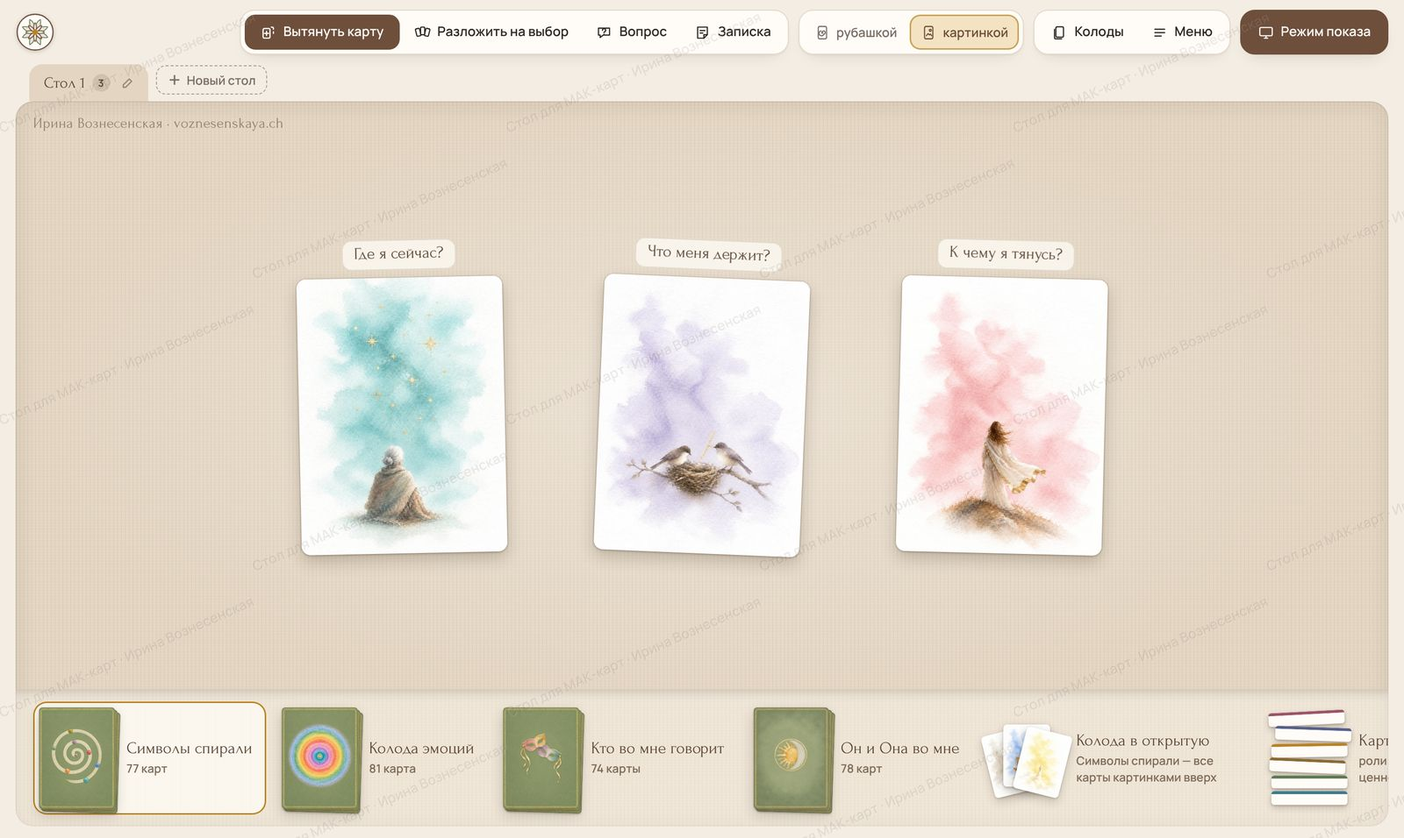
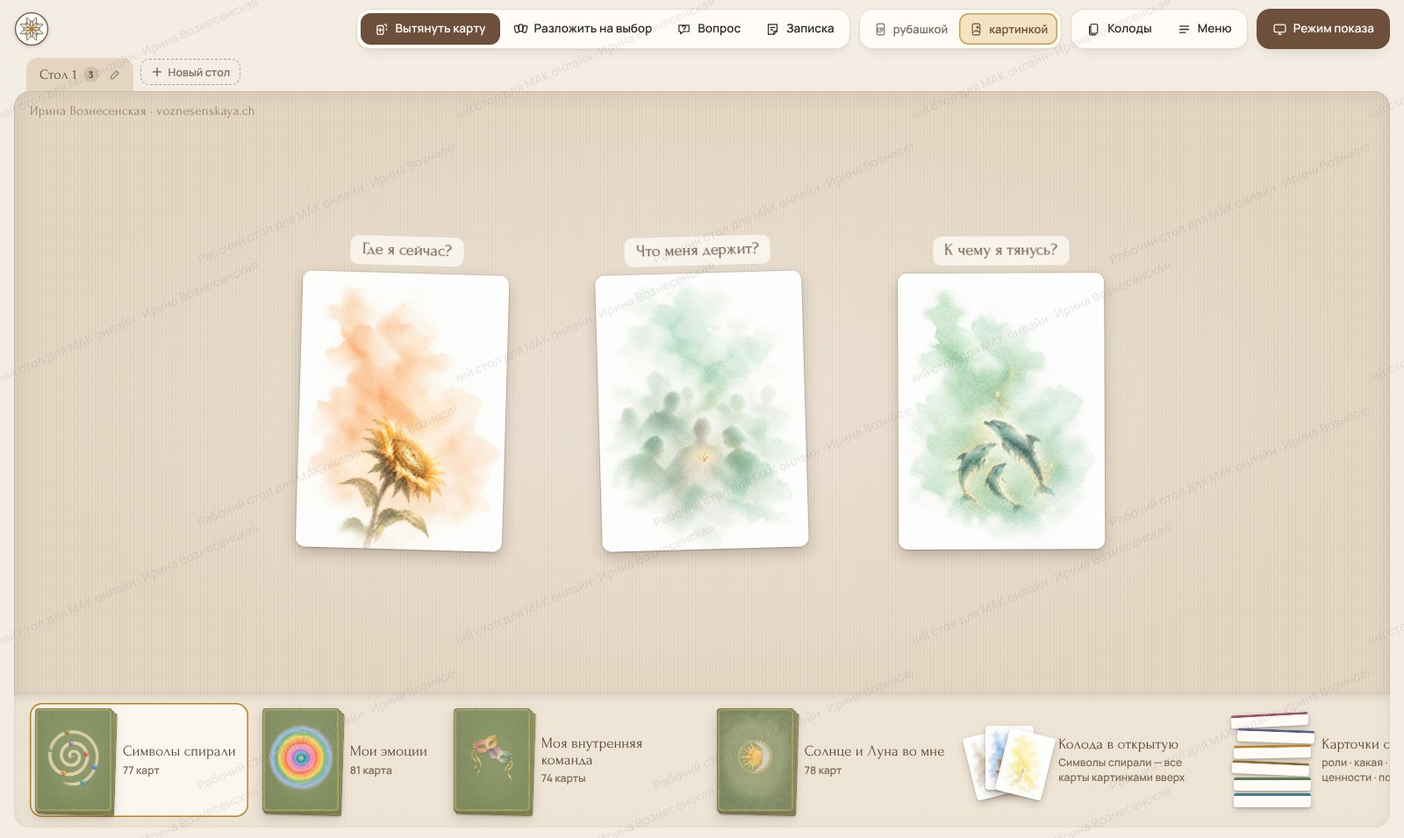
МАК-карты: колоды «Мои эмоции», «Моя внутренняя команда», «Солнце и Луна во мне», новые тексты страницы и снимок стола; память сайта v56 (RU)
Claude-Session: https://claude.ai/code/session_01VLBoUty16RTWdg7egacYMK

diff --git a/mak/index.html b/mak/index.html
@@ -665,8 +665,8 @@ html.mk-lockscroll{overflow:hidden}
     <div class="mk-hero-txt">
       <div class="eyebrow">МАК-карты · авторские колоды</div>
       <h1 id="h1">Рабочий стол <em>для МАК онлайн</em></h1>
-      <p class="lead">Карта ложится на стол, человек видит её на общем экране и рассказывает, что в ней узнаёт. Четыре авторские колоды, вопросы над картами, готовые расклады. Расклад сохраняется картинкой и в PDF.</p>
-      <p class="mk-for">Для коучей, психологов и всех, кто работает с МАК — метафорическими ассоциативными картами — на онлайн-сессиях.</p>
+      <p class="lead">Ты вытягиваешь карту — и она ложится на стол перед вами обоими: человек видит её на общем экране и рассказывает, что в ней узнаёт. Четыре авторские колоды, вопросы над картами и готовые расклады собраны в одном окне, а после встречи расклад остаётся картинкой и в PDF.</p>
+      <p class="mk-for">Для коучей, психологов и всех, кто ведёт онлайн-сессии с МАК — метафорическими ассоциативными картами.</p>
       <div class="mk-cta"><a class="btn" href="#vhod">Войти в стол</a><a class="btn ghost" href="#dostup">Как получить доступ</a></div>
     </div>
     <div class="mk-fan" aria-hidden="true">
@@ -679,7 +679,7 @@ html.mk-lockscroll{overflow:hidden}
     <div class="mk-login-txt">
       <div class="eyebrow">Закрытый доступ</div>
       <h2 id="h-vhod">Вход в стол</h2>
-      <p>Стол открыт только по личной лицензии. Пароль не нужен: введи e-mail, на который оформлен доступ, и мы пришлём код.</p>
+      <p>Стол открывается по личной лицензии. Пароль не нужен: введи e-mail, на который оформлен доступ, — на него придёт код для входа.</p>
     </div>
     <form class="mk-form" id="mkForm" novalidate>
       <label for="mkEm">E-mail</label>
@@ -692,31 +692,31 @@ html.mk-lockscroll{overflow:hidden}
   <section class="mk-shot" aria-labelledby="h-shot">
     <div class="sec-head"><div class="eyebrow">Как это выглядит</div><h2 id="h-shot">Карты на столе — и всё под рукой</h2></div>
     <figure>
-      <img src="img/stol.jpg" alt="Рабочий стол для МАК онлайн: три карты «Символов спирали» с вопросами «Где я сейчас?», «Что меня держит?», «К чему я тянусь?», внизу полка с четырьмя колодами" width="1600" height="956" loading="lazy">
-      <figcaption>Расклад «Три шага» из колоды «Символы спирали». Бледная надпись поверх стола — водяной знак: у каждого покупателя в нём свой номер лицензии.</figcaption>
+      <img src="img/stol.jpg" alt="Рабочий стол для МАК онлайн: три карты «Символов спирали» с вопросами «Где я сейчас?», «Что меня держит?», «К чему я тянусь?», внизу полка с колодами «Символы спирали», «Мои эмоции», «Моя внутренняя команда» и «Солнце и Луна во мне»" width="1600" height="956" loading="lazy">
+      <figcaption>Расклад «Три шага» из колоды «Символы спирали». Бледная надпись поверх стола — водяной знак: у каждого, кто купил доступ, в нём стоит свой номер лицензии.</figcaption>
     </figure>
   </section>
 
   <section id="kolody" class="mk-decks" aria-labelledby="h-kol">
     <div class="sec-head"><div class="eyebrow">Четыре колоды · 313 карт</div><h2 id="h-kol">Колоды на полке стола</h2>
-      <p>Все колоды авторские и в одном стиле: акварель, одна понятная сцена, золотая деталь. На картах нет подписей — человек сам называет, что видит. Описание каждой карты открывается в кружке «?» для того, кто ведёт сессию.</p></div>
+      <p>Все колоды авторские и в одном стиле: акварель, одна ясная сцена и золотая деталь. На картах нет подписей — человек сам даёт имя тому, что видит. А у тебя под рукой кружок «?» с описанием каждой карты: о чём она, что даёт и какие вопросы помогут.</p></div>
     <div class="mk-dgrid">
-      <article class="mk-deck"><img src="img/rubashka-simvoly.jpg" alt="Рубашка колоды «Символы спирали»" width="420" height="562" loading="lazy"><div><h3>Символы спирали</h3><p class="mk-n">80 карт</p><p>Архетипы, стихии, животные, растения, предметы, жесты и тени на восьми ступенях развития. Для вопросов «где я сейчас» и «куда я расту».</p></div></article>
-      <article class="mk-deck"><img src="img/rubashka-emocii.jpg" alt="Рубашка «Колоды эмоций»" width="420" height="562" loading="lazy"><div><h3>Колода эмоций</h3><p class="mk-n">81 карта</p><p>Эмоции в позах и движениях тела. Под картой можно записать, что хочется сделать, чего не хватило и какое решение пришло.</p></div></article>
-      <article class="mk-deck"><img src="img/rubashka-komanda.jpg" alt="Рубашка колоды «Кто во мне говорит»" width="420" height="562" loading="lazy"><div><h3>Кто во мне говорит</h3><p class="mk-n">74 карты</p><p>Внутренняя команда: голоса, которые судят, защищают, поддерживают, мирят и ищут выход.</p></div></article>
-      <article class="mk-deck"><img src="img/rubashka-onaon.jpg" alt="Рубашка колоды «Он и Она во мне»" width="420" height="562" loading="lazy"><div><h3>Он и Она во мне</h3><p class="mk-n">78 карт</p><p>Внутренняя женщина и внутренний мужчина: четыре ступени, светлые и теневые сцены, их встреча.</p></div></article>
+      <article class="mk-deck"><img src="img/rubashka-simvoly.jpg" alt="Рубашка колоды «Символы спирали»" width="420" height="562" loading="lazy"><div><h3>Символы спирали</h3><p class="mk-n">80 карт</p><p>Архетипы, стихии, животные, растения, жесты и тени — восемь ступеней развития в образах. Колода для вопросов «Где я сейчас?» и «Куда я расту?».</p></div></article>
+      <article class="mk-deck"><img src="img/rubashka-emocii.jpg" alt="Рубашка колоды «Мои эмоции»" width="420" height="562" loading="lazy"><div><h3>Мои эмоции</h3><p class="mk-n">81 карта</p><p>Каждая эмоция — в позе и движении тела, поэтому её легко узнать в себе. Под картой можно отметить, что хочется сделать, чего тогда не хватило и какое решение пришло.</p></div></article>
+      <article class="mk-deck"><img src="img/rubashka-komanda.jpg" alt="Рубашка колоды «Моя внутренняя команда»" width="420" height="562" loading="lazy"><div><h3>Моя внутренняя команда</h3><p class="mk-n">74 карты</p><p>Внутренние голоса, которые критикуют, защищают, поддерживают, мирят и ищут выход. Колода помогает услышать каждый из них и собрать их в одну команду.</p></div></article>
+      <article class="mk-deck"><img src="img/rubashka-onaon.jpg" alt="Рубашка колоды «Солнце и Луна во мне»" width="420" height="562" loading="lazy"><div><h3>Солнце и Луна во мне</h3><p class="mk-n">78 карт</p><p>Внутренняя женщина и внутренний мужчина: как они растут по четырём ступеням, их светлые и теневые стороны и встреча друг с другом.</p></div></article>
     </div>
   </section>
 
   <section class="mk-what" aria-labelledby="h-what">
     <div class="sec-head"><div class="eyebrow">Что умеет стол</div><h2 id="h-what">Всё для сессии на одном экране</h2></div>
     <div class="mk-tiles">
-      <div class="mk-tile"><i aria-hidden="true"><svg viewBox="0 0 24 24"><rect x="6" y="4" width="12" height="16" rx="2.2"/><path d="M12 9v6M9 12h6"/></svg></i><h3>Карта ложится сама</h3><p>Нажми на колоду — карта ложится рубашкой или картинкой вверх. Карты двигаются мышкой, открываются нажатием и показываются крупно.</p></div>
-      <div class="mk-tile"><i aria-hidden="true"><svg viewBox="0 0 24 24"><rect x="3" y="7" width="7" height="10" rx="1.6" transform="rotate(-10 6.5 12)"/><rect x="8.5" y="6" width="7" height="10" rx="1.6"/><rect x="14" y="7" width="7" height="10" rx="1.6" transform="rotate(10 17.5 12)"/></svg></i><h3>Выбор открыто и не глядя</h3><p>Вся колода картинками вверх или веер рубашками с номерами: человек называет номер, и карта ложится на стол.</p></div>
-      <div class="mk-tile"><i aria-hidden="true"><svg viewBox="0 0 24 24"><path d="M5 5h14v9H10l-4 4v-4H5z"/><path d="M12 8.2a1.6 1.6 0 1 1 1.6 1.6c-.9 0-1.6.5-1.6 1.4"/></svg></i><h3>Вопросы и расклады</h3><p>Вопрос над картой, готовые расклады, места для карт с вопросом и главный вопрос встречи.</p></div>
-      <div class="mk-tile"><i aria-hidden="true"><svg viewBox="0 0 24 24"><rect x="4" y="5" width="16" height="4" rx="1.2"/><rect x="4" y="10.5" width="16" height="4" rx="1.2"/><rect x="4" y="16" width="10" height="4" rx="1.2"/></svg></i><h3>Карточки слов</h3><p>Роли, ценности и потребности — узкими карточками под картой. Можно добавить свои слова.</p></div>
-      <div class="mk-tile"><i aria-hidden="true"><svg viewBox="0 0 24 24"><rect x="3" y="5" width="18" height="12" rx="2"/><path d="M8 20h8M12 17v3"/></svg></i><h3>Для Zoom</h3><p>Режим показа без панели, во весь экран. Несколько столов вкладками — для разных тем встречи.</p></div>
-      <div class="mk-tile"><i aria-hidden="true"><svg viewBox="0 0 24 24"><path d="M6 3h8l4 4v14H6z"/><path d="M14 3v4h4"/><path d="M12 10v7M9 14l3 3 3-3"/></svg></i><h3>Снимок и PDF</h3><p>Расклад картинкой или в PDF — с вопросами, картами и записками. Его можно отдать человеку после встречи.</p></div>
+      <div class="mk-tile"><i aria-hidden="true"><svg viewBox="0 0 24 24"><rect x="6" y="4" width="12" height="16" rx="2.2"/><path d="M12 9v6M9 12h6"/></svg></i><h3>Карта — одним нажатием</h3><p>Нажми на колоду, и карта ляжет на стол рубашкой или картинкой вверх. Карты можно двигать, открывать и показывать крупно.</p></div>
+      <div class="mk-tile"><i aria-hidden="true"><svg viewBox="0 0 24 24"><rect x="3" y="7" width="7" height="10" rx="1.6" transform="rotate(-10 6.5 12)"/><rect x="8.5" y="6" width="7" height="10" rx="1.6"/><rect x="14" y="7" width="7" height="10" rx="1.6" transform="rotate(10 17.5 12)"/></svg></i><h3>Выбор открыто или не глядя</h3><p>Вся колода картинками вверх — или веер рубашек с номерами: человек называет номер, и его карта ложится на стол.</p></div>
+      <div class="mk-tile"><i aria-hidden="true"><svg viewBox="0 0 24 24"><path d="M5 5h14v9H10l-4 4v-4H5z"/><path d="M12 8.2a1.6 1.6 0 1 1 1.6 1.6c-.9 0-1.6.5-1.6 1.4"/></svg></i><h3>Вопросы и расклады</h3><p>Вопрос над каждой картой, готовые расклады, места с вопросом, куда ляжет следующая карта, и главный вопрос встречи.</p></div>
+      <div class="mk-tile"><i aria-hidden="true"><svg viewBox="0 0 24 24"><rect x="4" y="5" width="16" height="4" rx="1.2"/><rect x="4" y="10.5" width="16" height="4" rx="1.2"/><rect x="4" y="16" width="10" height="4" rx="1.2"/></svg></i><h3>Карточки слов</h3><p>Роли, качества, ценности и потребности — узкие карточки, которые кладутся под карту. Своё слово можно дописать.</p></div>
+      <div class="mk-tile"><i aria-hidden="true"><svg viewBox="0 0 24 24"><rect x="3" y="5" width="18" height="12" rx="2"/><path d="M8 20h8M12 17v3"/></svg></i><h3>Для Zoom</h3><p>Режим показа убирает всё лишнее и раскрывает стол на весь экран. Для разных тем одной встречи — несколько столов во вкладках.</p></div>
+      <div class="mk-tile"><i aria-hidden="true"><svg viewBox="0 0 24 24"><path d="M6 3h8l4 4v14H6z"/><path d="M14 3v4h4"/><path d="M12 10v7M9 14l3 3 3-3"/></svg></i><h3>Снимок и PDF</h3><p>Расклад сохраняется картинкой или в PDF — с картами, вопросами и записками. Его можно отдать человеку после встречи, чтобы было к чему вернуться.</p></div>
     </div>
   </section>
 
@@ -724,10 +724,10 @@ html.mk-lockscroll{overflow:hidden}
     <div class="sec-head"><div class="eyebrow">Защита</div><h2 id="h-safe">Колоды защищены</h2></div>
     <ul class="leaf">
       <li>Стол открывается только по личной лицензии — по e-mail и коду из письма, без пароля.</li>
-      <li>Одновременно — на двух устройствах. Вход на третьем выключает самое давнее.</li>
-      <li>Карты загружаются по одной и только для экрана. Скачать колоду целиком нельзя, печать стола выключена.</li>
+      <li>Стол работает одновременно на двух устройствах; вход с третьего закрывает самое давнее.</li>
+      <li>Карты приходят по одной и только для показа на экране: скачать колоду целиком нельзя, печать стола выключена.</li>
       <li>На экране, на снимке стола и в PDF стоит бледный водяной знак с номером лицензии.</li>
-      <li>Расклады, вопросы и записки хранятся только в твоём браузере.</li>
+      <li>Твои расклады, вопросы и записки остаются только в твоём браузере — на сервер они не уходят.</li>
     </ul>
   </section>
 
@@ -735,13 +735,13 @@ html.mk-lockscroll{overflow:hidden}
     <div class="sec-head"><div class="eyebrow">Доступ</div><h2 id="h-how">Как получить доступ</h2></div>
     <ol class="mk-steps">
       <li><b>Напиши мне в <a href="https://t.me/IrynaNeuroCoach" target="_blank" rel="noopener">Telegram</a>.</b> Расскажи, с кем ты работаешь и какие колоды тебе нужны.</li>
-      <li><b>Получи счёт.</b> Цену и срок доступа уточняй у меня лично.</li>
-      <li><b>Входи в стол.</b> После оплаты доступ откроется на твой e-mail. Вход — по коду из письма, перед первым входом нужно принять условия использования.</li>
+      <li><b>Получи счёт.</b> Цену и срок доступа уточняй у меня лично — счёт придёт на твой e-mail.</li>
+      <li><b>Входи в стол.</b> После оплаты я открою доступ для твоего e-mail. Входишь по коду из письма, а при первом входе стол попросит принять условия использования.</li>
     </ol>
     <div class="mk-how-cta"><span class="mk-price">Цену уточняй лично. Окончательная цена появится здесь, как только я её утвержу.</span><a class="btn" href="https://t.me/IrynaNeuroCoach" target="_blank" rel="noopener">Написать в Telegram</a></div>
   </section>
 
-  <div class="share-slot" data-url="https://voznesenskaya.ch/mak/" data-lead="Знаешь коллегу, который работает с МАК-картами? Перешли страницу, сообщение уже готово." data-text="Привет! Тут рабочий стол для МАК онлайн с четырьмя авторскими колодами: карты ложатся на стол, их видно в Zoom, расклад сохраняется в PDF. Посмотри:"></div>
+  <div class="share-slot" data-url="https://voznesenskaya.ch/mak/" data-lead="Знаешь коллегу, который работает с МАК-картами? Перешли страницу, сообщение уже готово." data-text="Привет! Посмотри, какой рабочий стол для МАК онлайн: четыре авторские колоды, карты видно на общем экране в Zoom, а расклад сохраняется в PDF."></div>
 
   <footer>
     <span>© 2026 Ирина Вознесенская · коуч, ментор, автор метода «Ступени. Твой путь в новой стране»</span>

diff --git a/index.html b/index.html
@@ -1063,7 +1063,7 @@ span.rv-prod:hover{background:var(--sage-soft);color:var(--sage)}
   <section id="novoe" aria-labelledby="nv-h">
     <h2 id="nv-h">Новое</h2>
     <p class="nv-lead">Что появилось на сайте и в проекте «Свои люди».</p>
-    <div class="nv-grid"><article class="nv-item"><div class="nv-meta"><span class="nv-k">На сайте</span><time datetime="2026-10-17">17 октября 2026</time></div><h3>Рабочий стол для МАК онлайн</h3><p>Новая вкладка «МАК-карты»: рабочий стол для онлайн-сессий с метафорическими картами и четырьмя моими авторскими колодами, 313 карт. Карты видно на общем экране в Zoom, расклад сохраняется картинкой и в PDF. Доступ — по личной лицензии.</p><a href="mak/">Посмотреть →</a></article><article class="nv-item"><div class="nv-meta"><span class="nv-k">На сайте</span><time datetime="2026-10-15">15 октября 2026</time></div><h3>Основа метода: спиральная динамика</h3><p>На чём стоят ступени моего метода. Кто создал спиральную динамику — Клэр Грейвз, Дон Бек и Кристофер Кован, что человеку нужно и что для него ценно на каждом из восьми уровней и как он переходит на следующий: шесть условий перемены и пять состояний на пути. У каждого уровня — своя карта-акварель.</p><a href="osnova/">Прочитать →</a></article><article class="nv-item"><div class="nv-meta"><span class="nv-k">На сайте</span><time datetime="2026-10-15">15 октября 2026</time></div><h3>Три пути: жизнь, своё дело и отношения</h3><p>«Твой путь» теперь — три пути одного метода. Жизнь в новой стране, своё дело и новый путь «Мужчина и женщина — ступень за ступенью»: восемь ступеней отношений от «рядом безопасно» до любви, которая больше вас двоих. На всех трёх путях одни инструменты, и каждый говорит о своём.</p><a href="otnosheniya/">Посмотреть →</a></article><article class="nv-item"><div class="nv-meta"><span class="nv-k">На сайте</span><time datetime="2026-10-15">15 октября 2026</time></div><h3>Своё дело — с нуля и до вершины</h3><p>Восемь ступеней, по которым растёт своё дело в новой стране: от первой мысли «а что, если своё?» до дела, которое живёт и помогает другим. У каждой ступени — с чем на неё приходят, что тебе нужно и что поможет на каждом из трёх шагов: статьи и бесплатные инструменты «Своих людей», программы и встречи со мной.</p><a href="delo/">Посмотреть →</a></article></div>
+    <div class="nv-grid"><article class="nv-item"><div class="nv-meta"><span class="nv-k">На сайте</span><time datetime="2026-10-17">17 октября 2026</time></div><h3>Рабочий стол для МАК онлайн</h3><p>Новая вкладка «МАК-карты»: рабочий стол для онлайн-сессий с метафорическими картами. Четыре мои авторские колоды, 313 карт; карты видно на общем экране в Zoom, а расклад сохраняется картинкой и в PDF. Доступ — по личной лицензии.</p><a href="mak/">Посмотреть →</a></article><article class="nv-item"><div class="nv-meta"><span class="nv-k">На сайте</span><time datetime="2026-10-15">15 октября 2026</time></div><h3>Основа метода: спиральная динамика</h3><p>На чём стоят ступени моего метода. Кто создал спиральную динамику — Клэр Грейвз, Дон Бек и Кристофер Кован, что человеку нужно и что для него ценно на каждом из восьми уровней и как он переходит на следующий: шесть условий перемены и пять состояний на пути. У каждого уровня — своя карта-акварель.</p><a href="osnova/">Прочитать →</a></article><article class="nv-item"><div class="nv-meta"><span class="nv-k">На сайте</span><time datetime="2026-10-15">15 октября 2026</time></div><h3>Три пути: жизнь, своё дело и отношения</h3><p>«Твой путь» теперь — три пути одного метода. Жизнь в новой стране, своё дело и новый путь «Мужчина и женщина — ступень за ступенью»: восемь ступеней отношений от «рядом безопасно» до любви, которая больше вас двоих. На всех трёх путях одни инструменты, и каждый говорит о своём.</p><a href="otnosheniya/">Посмотреть →</a></article><article class="nv-item"><div class="nv-meta"><span class="nv-k">На сайте</span><time datetime="2026-10-15">15 октября 2026</time></div><h3>Своё дело — с нуля и до вершины</h3><p>Восемь ступеней, по которым растёт своё дело в новой стране: от первой мысли «а что, если своё?» до дела, которое живёт и помогает другим. У каждой ступени — с чем на неё приходят, что тебе нужно и что поможет на каждом из трёх шагов: статьи и бесплатные инструменты «Своих людей», программы и встречи со мной.</p><a href="delo/">Посмотреть →</a></article></div>
     <div class="nv-bridge"><p><b>Практические вопросы о жизни в Швейцарии</b> — пермит, налоги, страховки, школа, жильё — собраны в моём проекте «Свои люди». Там же специалисты, которые говорят на твоём языке, и бесплатные инструменты.</p><a class="btn ghost" href="https://svoiludi.ch/" target="_blank" rel="noopener">Открыть «Свои люди»</a></div>
     <div class="nv-sub"><div><b>Подписаться на новое</b><p>Новые материалы, мысли об адаптации и анонсы — в моём Telegram-канале. Отписаться можно в любой момент.</p></div><a class="btn" href="https://t.me/IrynaNeuroCoach_channel" target="_blank" rel="noopener">Подписаться в Telegram</a></div>
   </section>

diff --git a/sw.js b/sw.js
@@ -3,7 +3,7 @@
    Файлы (стили, скрипты, шрифты, картинки): сразу из памяти, в фоне обновляются.
    Личные записи людей здесь не хранятся: они остаются в localStorage браузера, как раньше.
    При изменении этого файла поднять VERSION — старая память удалится. */
-const VERSION = 'v55-2026-10-17';
+const VERSION = 'v56-2026-10-17';
 const CACHE = 'vz-' + VERSION;
 const CORE = ['/offline',   // без .html: Cloudflare отдаёт страницы без .html (17.10.2026)
               '/assets/vz-app.js', '/icon-192.png', '/favicon.svg'];

diff --git a/_i18n/novoe.py b/_i18n/novoe.py
@@ -4,7 +4,7 @@
 import re, os
 ROOT = os.path.dirname(os.path.dirname(os.path.abspath(__file__)))
 ITEMS = [  # (дата ISO, дата текстом, метка, заголовок, текст, ссылка, кнопка)
- ('2026-10-17','17 октября 2026','На сайте','Рабочий стол для МАК онлайн','Новая вкладка «МАК-карты»: рабочий стол для онлайн-сессий с метафорическими картами и четырьмя моими авторскими колодами, 313 карт. Карты видно на общем экране в Zoom, расклад сохраняется картинкой и в PDF. Доступ — по личной лицензии.','mak/','Посмотреть'),
+ ('2026-10-17','17 октября 2026','На сайте','Рабочий стол для МАК онлайн','Новая вкладка «МАК-карты»: рабочий стол для онлайн-сессий с метафорическими картами. Четыре мои авторские колоды, 313 карт; карты видно на общем экране в Zoom, а расклад сохраняется картинкой и в PDF. Доступ — по личной лицензии.','mak/','Посмотреть'),
  ('2026-10-15','15 октября 2026','На сайте','Основа метода: спиральная динамика','На чём стоят ступени моего метода. Кто создал спиральную динамику — Клэр Грейвз, Дон Бек и Кристофер Кован, что человеку нужно и что для него ценно на каждом из восьми уровней и как он переходит на следующий: шесть условий перемены и пять состояний на пути. У каждого уровня — своя карта-акварель.','osnova/','Прочитать'),
  ('2026-10-15','15 октября 2026','На сайте','Три пути: жизнь, своё дело и отношения','«Твой путь» теперь — три пути одного метода. Жизнь в новой стране, своё дело и новый путь «Мужчина и женщина — ступень за ступенью»: восемь ступеней отношений от «рядом безопасно» до любви, которая больше вас двоих. На всех трёх путях одни инструменты, и каждый говорит о своём.','otnosheniya/','Посмотреть'),
  ('2026-10-15','15 октября 2026','На сайте','Своё дело — с нуля и до вершины','Восемь ступеней, по которым растёт своё дело в новой стране: от первой мысли «а что, если своё?» до дела, которое живёт и помогает другим. У каждой ступени — с чем на неё приходят, что тебе нужно и что поможет на каждом из трёх шагов: статьи и бесплатные инструменты «Своих людей», программы и встречи со мной.','delo/','Посмотреть'),

diff --git a/_i18n/JOURNAL.md b/_i18n/JOURNAL.md
@@ -92,3 +92,7 @@
 ## 17.10.2026 — выложено сразу (поправка): стол называется «Рабочий стол для МАК онлайн» (только RU)
 - Ирина, 18:47: «назови его рабочий стол для работы с мак онлайн». Чтобы не повторять «рабочий… работы», название — «Рабочий стол для МАК онлайн»; полная фраза «рабочий стол для работы с метафорическими ассоциативными картами (МАК) онлайн» — в описании страницы для поиска, а под заголовком объяснено, что такое МАК.
 - mak/: заголовок страницы и вкладки браузера, описание, превью ссылки (заново), подпись к снимку, окно «E-mail не распознан», текст «Поделиться»; «Новое» на главной; sw v55. Вкладка в меню — по-прежнему «МАК-карты».
+
+## 17.10.2026 — выложено сразу (поправка): колоды «Мои эмоции», «Моя внутренняя команда», «Солнце и Луна во мне»; тексты страницы «МАК-карты» (только RU)
+- Ирина, 20:51: «перепроверь тексты, должно все быть описано красиво. переименуй колоды в мои эмоции, …» и 21:02: «лучше не мои лица а моя внутренняя команда». «Колода эмоций» → «Мои эмоции», «Кто во мне говорит» → «Моя внутренняя команда»; «Он и Она во мне» → «Солнце и Луна во мне» (выбор Ирины 19:03 в чате колоды).
+- mak/: карточки колод и подписи к рубашкам, новый снимок стола (на полке новые названия, метка «создано ИИ»), все тексты страницы переписаны теплее и яснее; текст «Новое»; sw v56.
